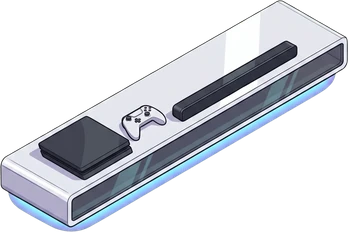
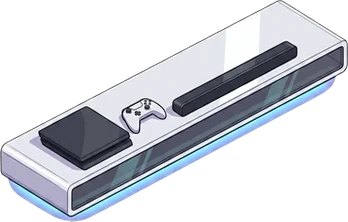
Game Room (Cal, v0.73 phone): the 80 inch screen and the media console sheared to the wall's angle so they sit flush; the foosball turned the way its art faces and set in a row with the pool table, a clear gap between them and from the sofa, players at both long sides

diff --git a/quest-board/app/src/27b_skins.js b/quest-board/app/src/27b_skins.js
@@ -81,7 +81,7 @@ var GMR={name:"Game Room",lv:18,startLv:18,step:1,wall:"#27304c",wain:"#1a2138",
   PL("gm_pool","Pool Table",UP_M,"gmx_pool",4.35,7.65,3.2,2.1,1,"Felt and chalk.",{cust:[[5.95,7.15,-1],[3.8,8.7,1]]}),/* a clear ring round it: off the beanbags, a tile from the ping pong table */
   ["gm_ping","Ping Pong Table",UP_M,"","",0,0,0,"A blue table, two paddles and a net clamp.",{retired:1}],/* Cal: drop it (QA: one table too many, both ends boxed in). Retired, not deleted: saves that own it keep loading */
   PL("gm_arc","Green Arcade Cabinet",UP_M,"gmx_arc2",.4,.3,1.1,1.1,0,"A green upright with a joystick and two buttons.",{cust:[[.95,2.1,1,GMB]]}),
-  PL("gm_foos","Foosball",UP_M,"gmx_foos",9.8,6.5,1.65,2.5,1,"Wooden table, eleven rods, a cork ball.",{cust:[[9.25,7.75,1],[12.0,7.75,-1,GMB]]}),/* Cal: down toward the front so the arcade has its corner; clear of the pool table and the doorway */
+  PL("gm_foos","Foosball",UP_M,"gmx_foos",9.6,7.95,2.5,1.65,1,"Wooden table, eleven rods, a cork ball.",{cust:[[10.85,7.5,-1],[10.85,9.85,1,GMB]]}),/* Cal (v0.73 phone): "aligned with the pool table but spaced apart": in a row with it, the same way round (its footprint was turned against its art), a clear tile from the pool table and well off the sofa; players at both long sides */
   PL("gm_vend","Soda Machine",UP_S,"gmx_vend",11.6,.2,1.0,.9,0,"A red vending machine, lit from inside.",{cust:[[12.1,1.8,1,GMB]]}),
   PL("gm_neon","LED Wall Panels",UP_S,"gmx_led",.05,2.4,.1,2.0,1,"A cluster of hexagon lights in blue and violet.",{o:{dy:-62,h:1,nosh:1,nob:1,dk:30}}),
   PL("gm_dart","Dartboard",UP_S,"gmx_dart",.05,5.75,.2,1.7,1,"A cork board in a wooden cabinet, three darts.",{o:{dy:-52,h:1,nob:1,nosh:1,dk:30},cust:[[2.6,6.85,-1,GMB]]}),/* QA: on the back wall it covered the lit hexes; on the left wall between the light panels and the old TV, thrown at from the open floor */
